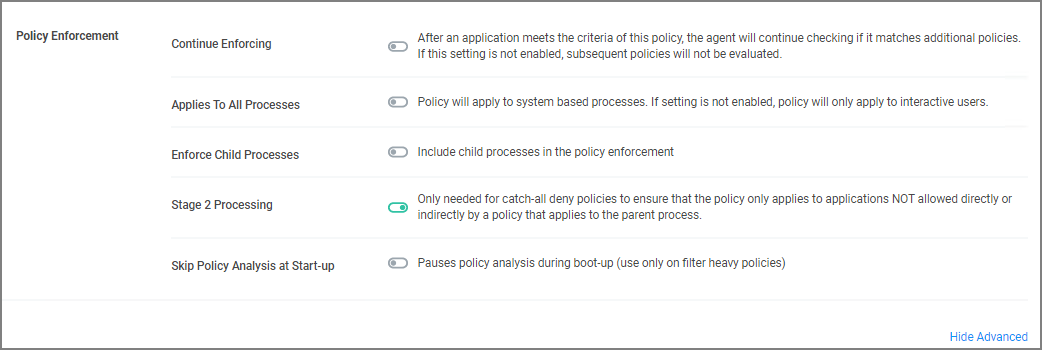
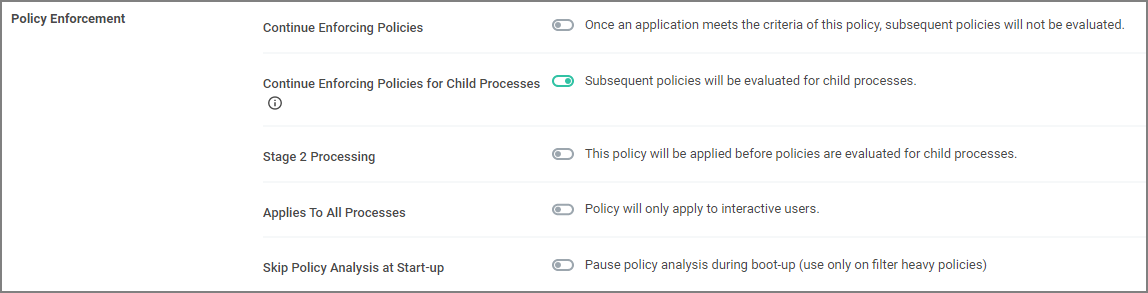
edits based on review feedback

diff --git a/computer-groups/app-control/policies/stage-two.md b/computer-groups/app-control/policies/stage-two.md
@@ -13,24 +13,26 @@ After an application meets the criteria of this policy, the agent will continue 
 
 This setting has to be active for __Stage 2 Processing__ to work as intended.
 
-## Applies to All Processes
+## Continue Enforcing Policies for Child Processes
 
-Policy will apply to system based processes. If this setting is not active, the policy will only apply to interactive users.
-
-## Enforce Child Processes
-
-Include child processes in the policy enforcement.
+Include child processes in the policy enforcement, meaning subsequent policies will be evaluated.
 
 In certain situations this needs to be disabled, if for example you want to allow and application if it is launched by a specific process, but deny it if it's executed directly. Refer to the __Stage 2 Processing__ description.
 
 ## Stage 2 Processing
 
-Policies are initially evaluated for the primary process. If no matches are found, policies are evaluated for a parent of that process. If, for example, you wanted to allow regedit.exe when launched by cmd.exe but block it if launched directly, you need to create
+Policies are initially evaluated for the primary process. If no matches are found, policies are evaluated for a parent of that process. If active, the policy is applied before policies are evaluated for child processes.
+
+For example, if you want to allow regedit.exe when launched by cmd.exe but block it if launched directly, you need to create
 
 1. a policy to target and allow cmd.exe with an inactive "Enforce Child Processes" and
 1. a policy that targets regedit.exe with a deny action and "Stage 2 processing" enabled.
 
 The priority on the policy that targets regedit.exe directly needs to be higher than the priority on the allow cmd.exe policy.
+
+## Applies to All Processes
+
+Policy will apply to system based processes. If this setting is not active, the policy will only apply to interactive users.
 
 ## Skip Policy Analysis at Start-up
 

diff --git a/computer-groups/app-control/policies/policy-page.md b/computer-groups/app-control/policies/policy-page.md
@@ -5,13 +5,13 @@
 
 Once a policy is created, it can be customized. The following screen capture shows a policy example that denies the execution of a specific batch file.
 
-![example bat policy](../filters/types/application/sff/images/script-policy.png "Policy to deny batch file execution")
+![example bat policy](../../../admin/filters/types/application/sff/images/script-policy.png "Policy to deny batch file execution")
 
 ## Policy Activation
 
 By default newly created policies are inactive and to activate them, the switch needs to be set to active.
 
-  ![inactive](../filters/types/application/sff/images/pol-inactive.png "Inactive policy switch") - ![active](../filters/types/application/sff/images/pol-active.png "Active policy switch")
+  ![inactive](images/pol-inactive.png "Inactive policy switch") - ![active](images/pol-active.png "Active policy switch")
 
 ## Policy Details
 
